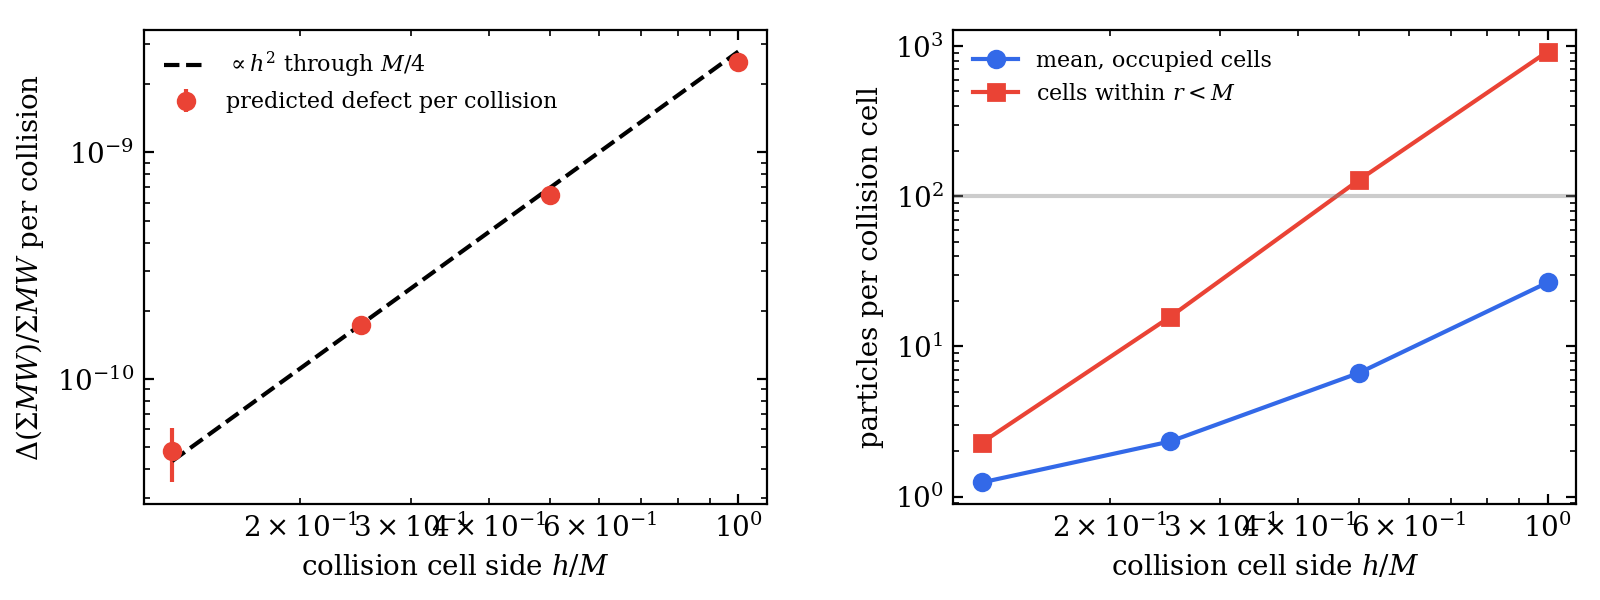
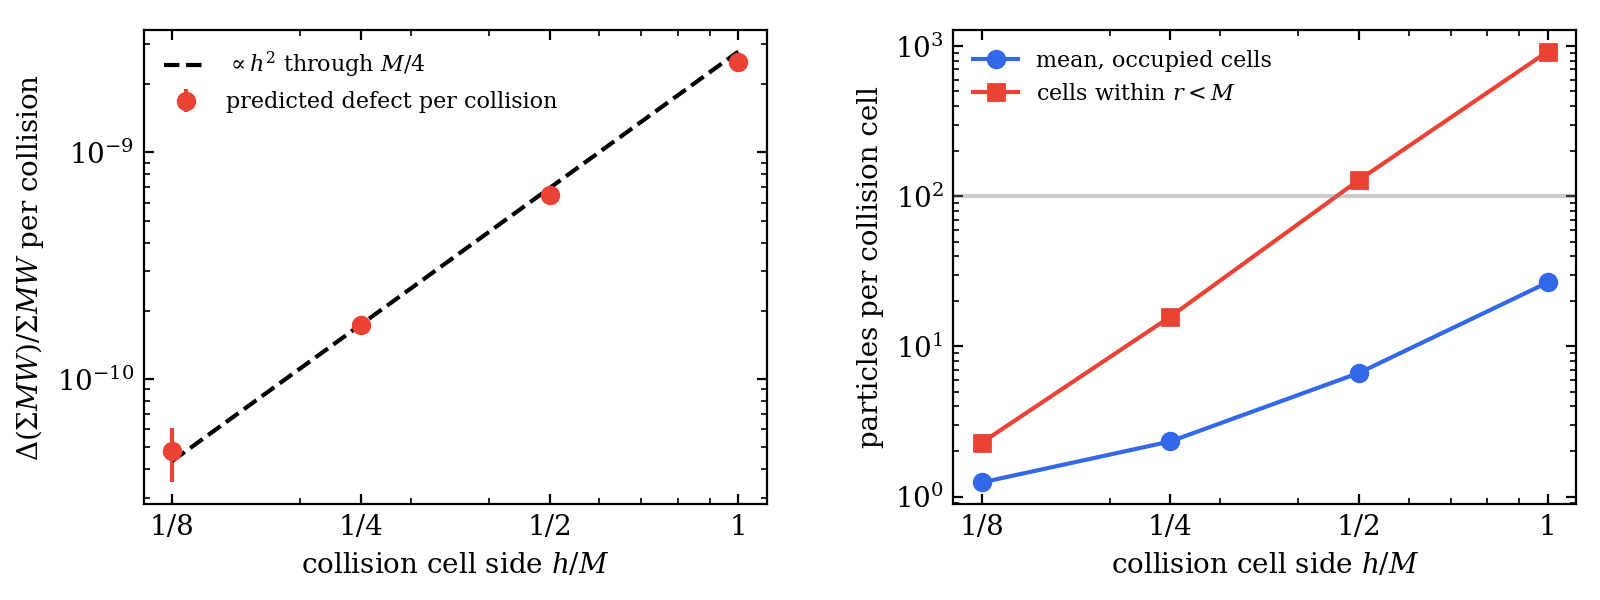
threshold_scan: cell-size figure relabelled, rerun repeats the numbers byte for byte (run C-20261115-175709-e5d0e07)
Claude-Session: https://claude.ai/code/session_01VD79cUYemmpt27M8dtYPfW

diff --git a/tracks/C-sidm/threshold_scan/JOURNAL.md b/tracks/C-sidm/threshold_scan/JOURNAL.md
@@ -233,4 +233,5 @@ and the energy defect is sharp in this model at N = 10^5: about 100 per cell in 
 needs M/2 cells (coll_cell_factor = 2 on the M/4 mesh), where the defect is 6.5e-10 per
 collision, 7.6e-4 of sum M W over 300 M at Kn = 1 and about 8e-3 at Kn = 0.1 (at the
 initial rate). The x-axis labels of the first version of the figure overlapped; the script
-now labels the four sizes (cosmetic; numbers unchanged).
+now labels the four sizes; the rerun C-20261115-175709-e5d0e07 gives a byte-identical
+cells.json and the figure in `figs/`.
